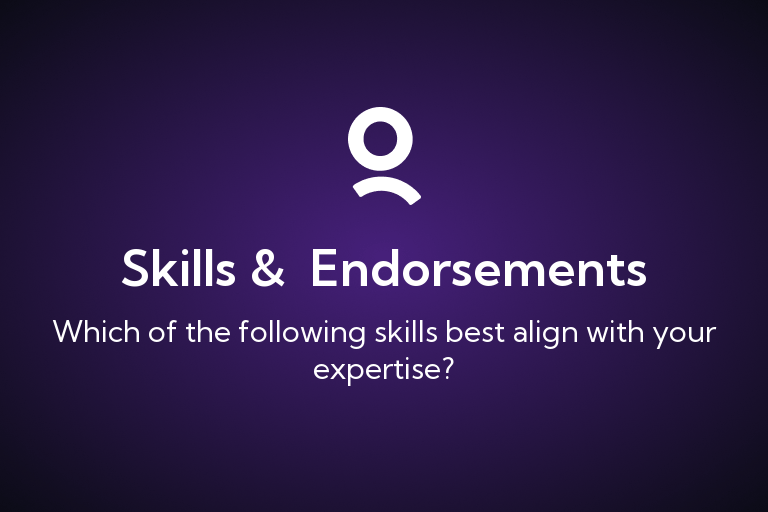
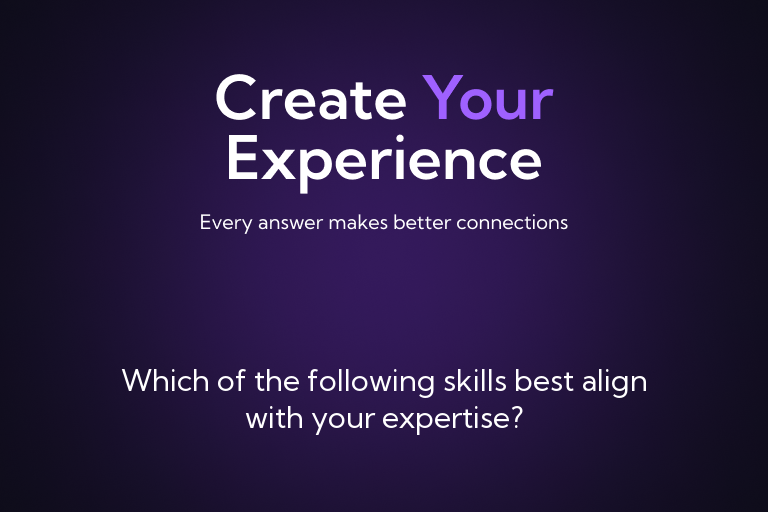
Added new fonts, new question frame bg

diff --git a/utils/frames/generateFrameImages.ts b/utils/frames/generateFrameImages.ts
@@ -1,58 +1,41 @@
 import Jimp from 'jimp'
 import { Font } from '@jimp/plugin-print'
 import * as path from 'path'
+import * as fs from 'fs'
 import { intoriFrameForms } from './intoriFrameForms'
 import {
-  loadKumbSans30,
-  loadKumbSans50
+  loadKumbSans30
 } from './fonts'
-import { camelCaseToTitleCase } from '../textHelpers'
 
-let kumbhSans50: Font
 let kumbhSans30: Font
 
 const loadFonts = async () => {
-  kumbhSans50 = await loadKumbSans50()
   kumbhSans30 = await loadKumbSans30()
 }
 
 const generateQuestionnaireStepImage = async (
-  title: string,
-  subtitle: string,
+  question: string
 ): Promise<Jimp> => {
   await loadFonts()
 
   const image = await Jimp.read(
     path.join(
       process.cwd(),
-      'public/assets/frames/step_frame_template.png'
+      'public/assets/templates/question_frame_template.png'
     )
   )
 
   image.print(
-    kumbhSans50,
-    25,
-    236,
-    {
-      text: title,
-      alignmentX: Jimp.HORIZONTAL_ALIGN_CENTER,
-      alignmentY: Jimp.VERTICAL_ALIGN_MIDDLE
-    },
-    718,
-    62
-  )
-
-  image.print(
     kumbhSans30,
-    25,
-    330,
+    103,
+    361,
     {
-      text: subtitle,
+      text: question,
       alignmentX: Jimp.HORIZONTAL_ALIGN_CENTER,
       alignmentY: Jimp.VERTICAL_ALIGN_MIDDLE
     },
-    718,
-    37
+    562,
+    74
   )
 
   return image
@@ -60,24 +43,29 @@ const generateQuestionnaireStepImage = async (
 
 export const generateQuestionnaireStepImages = async () => {
   const sequences = Object.keys(intoriFrameForms)
-  const pathPrefix = path.join(
+
+  const finalFramePathPrefix = path.join(
     process.cwd(),
     'public/assets/frames'
   )
+
+  const templatesPathPrefix = path.join(
+    process.cwd(),
+    'public/assets/templates'
+  )
+
   for ( let i = 0; i < sequences.length; i++ ) {
     const sequence = intoriFrameForms[sequences[i]]
 
     const framePathPrefix = path.join(
-      pathPrefix,
+      finalFramePathPrefix,
       sequence.name
     )
 
-    const firstFrame = await generateQuestionnaireStepImage(
-    camelCaseToTitleCase(sequence.name),
-      'Daily suggested follows and channels for you'
+    fs.copyFileSync(
+      path.join(templatesPathPrefix, 'intro_frame_template.png'),
+      path.join(framePathPrefix, '1.png')
     )
-
-    firstFrame.writeAsync(path.join(framePathPrefix, '/1.png'))
 
     for (let stepIndex = 0; stepIndex < sequence.steps.length; stepIndex++) {
       const step = sequence.steps[stepIndex]
@@ -85,10 +73,7 @@ export const generateQuestionnaireStepImages = async () => {
         continue
       }
 
-      const stepImage = await generateQuestionnaireStepImage(
-       camelCaseToTitleCase(step.title),
-        step.question
-      )
+      const stepImage = await generateQuestionnaireStepImage(step.question)
 
       await stepImage.writeAsync(
         path.join(

diff --git a/utils/frames/fonts.ts b/utils/frames/fonts.ts
@@ -4,7 +4,7 @@ import Jimp from 'jimp'
 export const loadFont = async (fontName: string) => {
   const pathToFont = path.join(
     process.cwd(),
-    'public/assets/frames/',
+    'public/assets/fonts/',
     fontName
   )
 
@@ -23,6 +23,14 @@ export const loadKumbSans30 = async () => {
   return await loadFont('kumbh_sans_30.fnt')
 }
 
+export const loadKumbSans26 = async () => {
+  return await loadFont('kumbh_sans_26.fnt')
+}
+
 export const loadKumbSans21 = async () => {
   return await loadFont('kumbh_sans_21.fnt')
+}
+
+export const loadKumbSans20 = async () => {
+  return await loadFont('kumbh_sans_20.fnt')
 }
